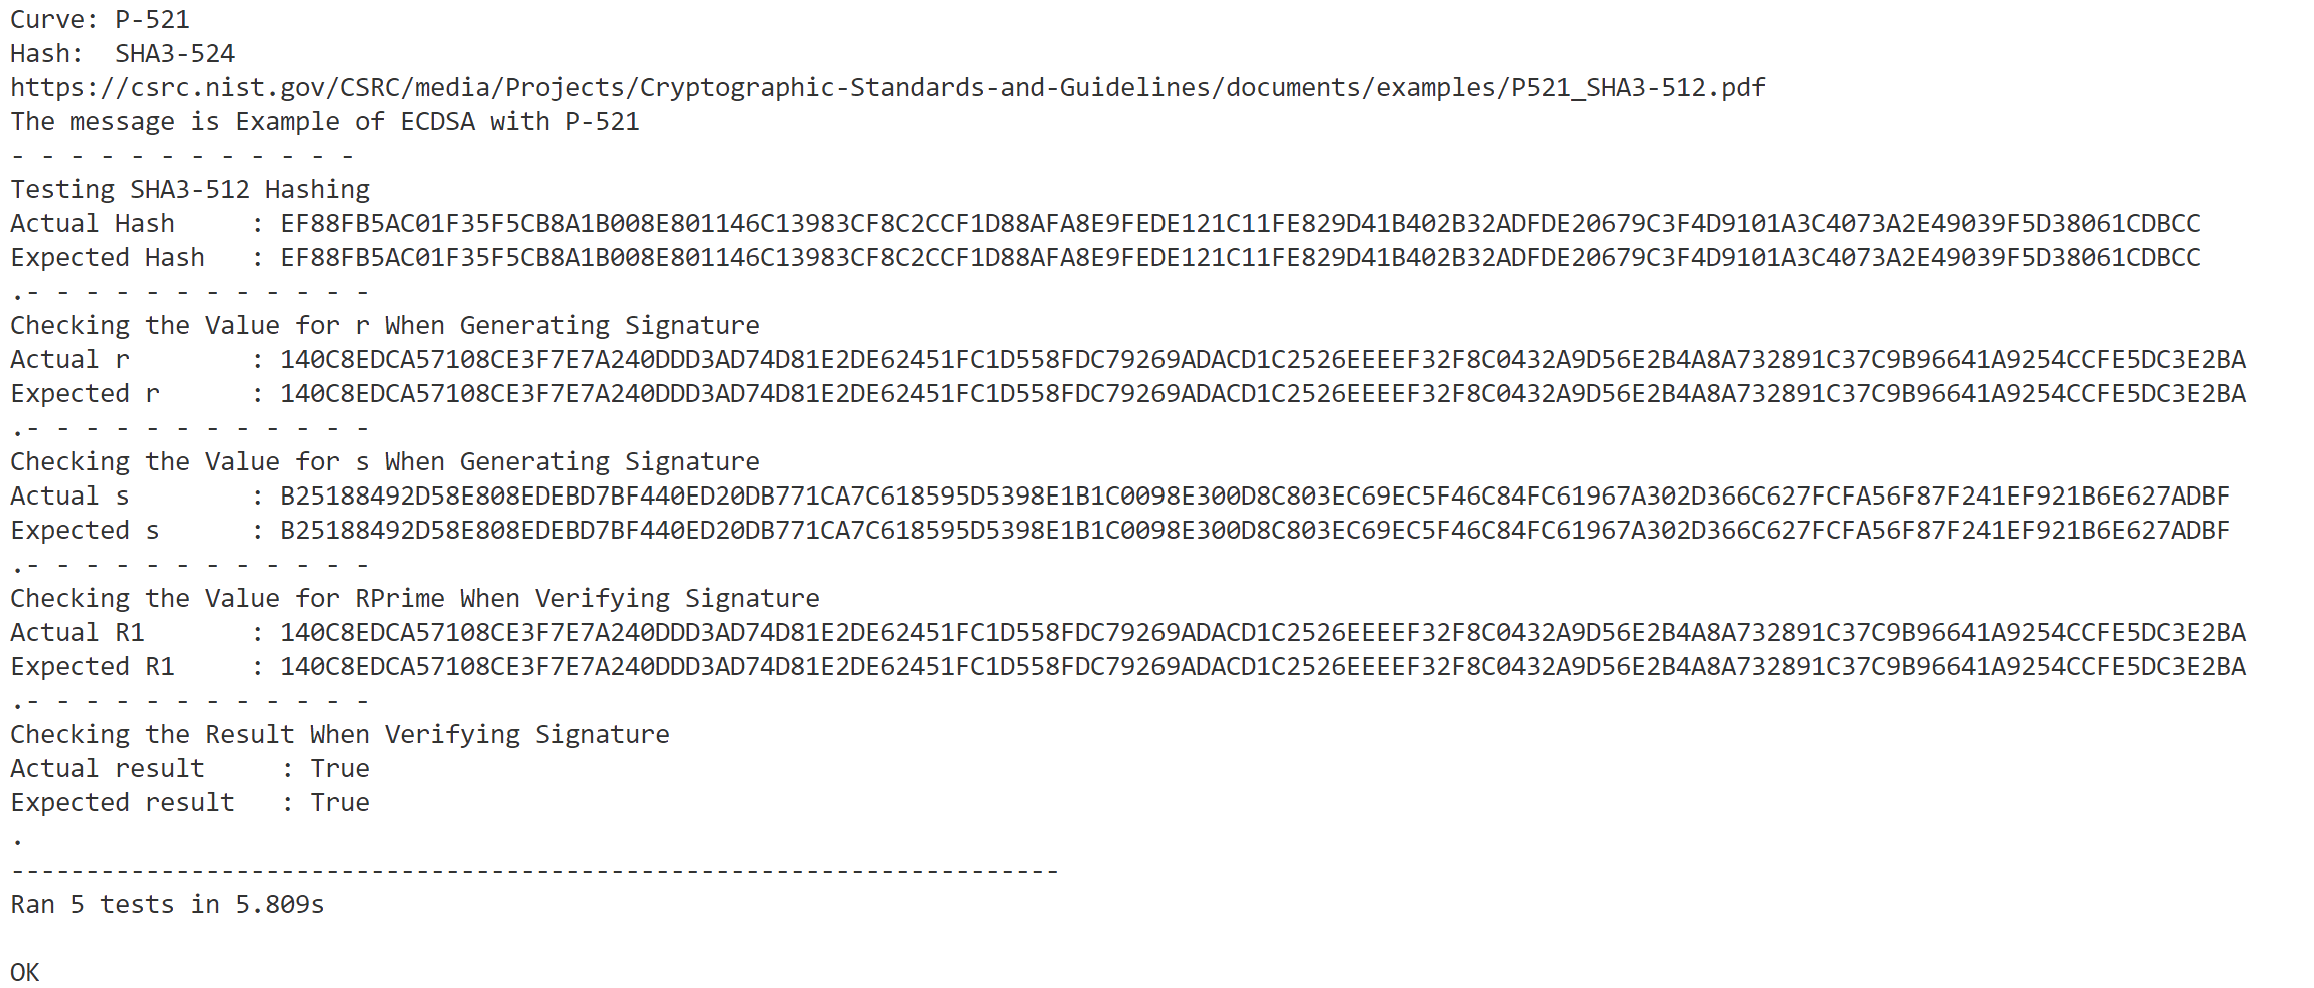
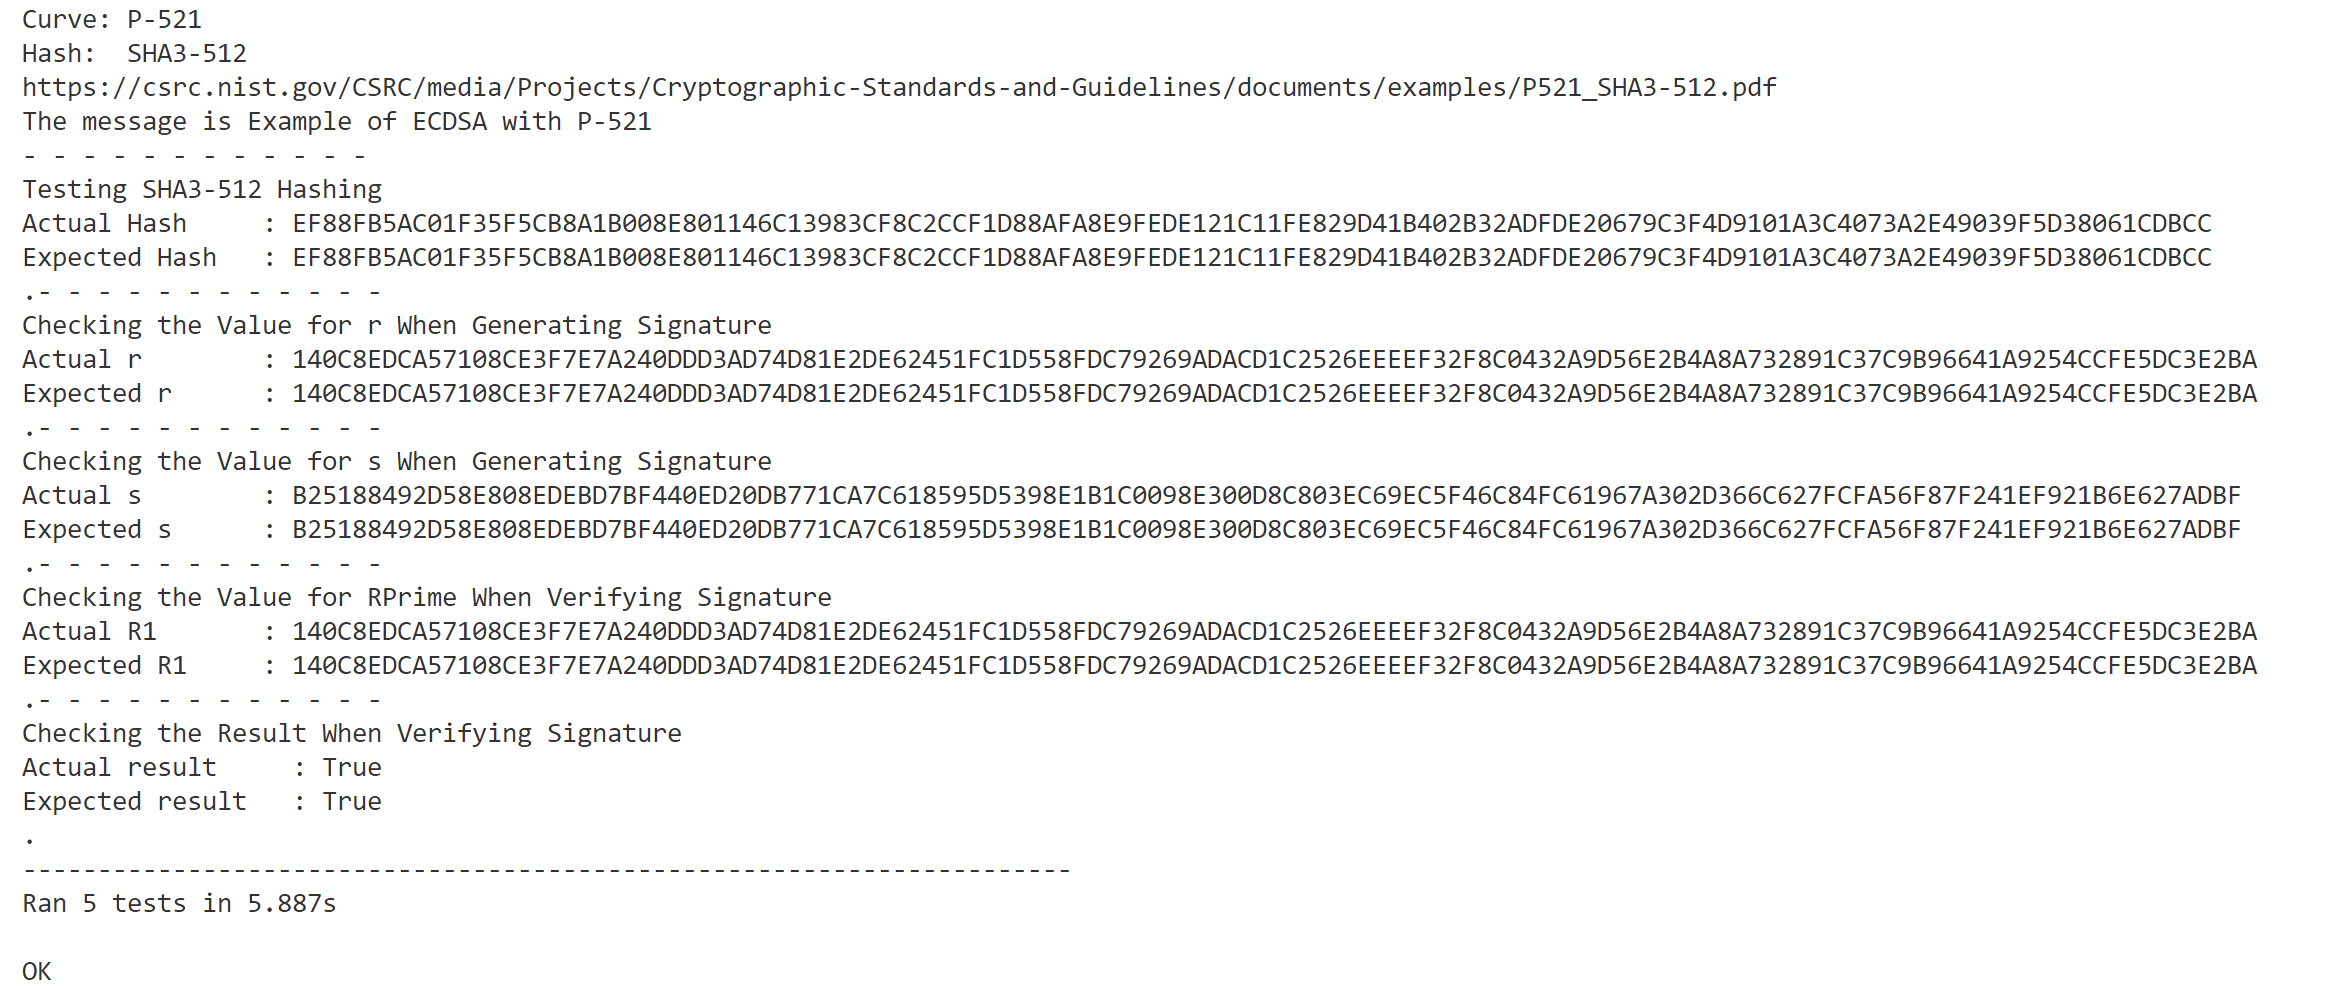
Corrected typo

diff --git a/CryptographySchemes/OutputImages/ECDSA_Examples.py b/CryptographySchemes/OutputImages/ECDSA_Examples.py
@@ -99,7 +99,7 @@ class ECDSA_UnitTests(unittest.TestCase):
 
 if __name__ == '__main__':
     print("Curve: P-521")
-    print("Hash:  SHA3-524")
+    print("Hash:  SHA3-512")
     print("https://csrc.nist.gov/CSRC/media/Projects/Cryptographic-Standards-and-Guidelines/documents/examples/P521_SHA3-512.pdf")
     print(f"The message is {"Example of ECDSA with P-521"}")
     unittest.main()
